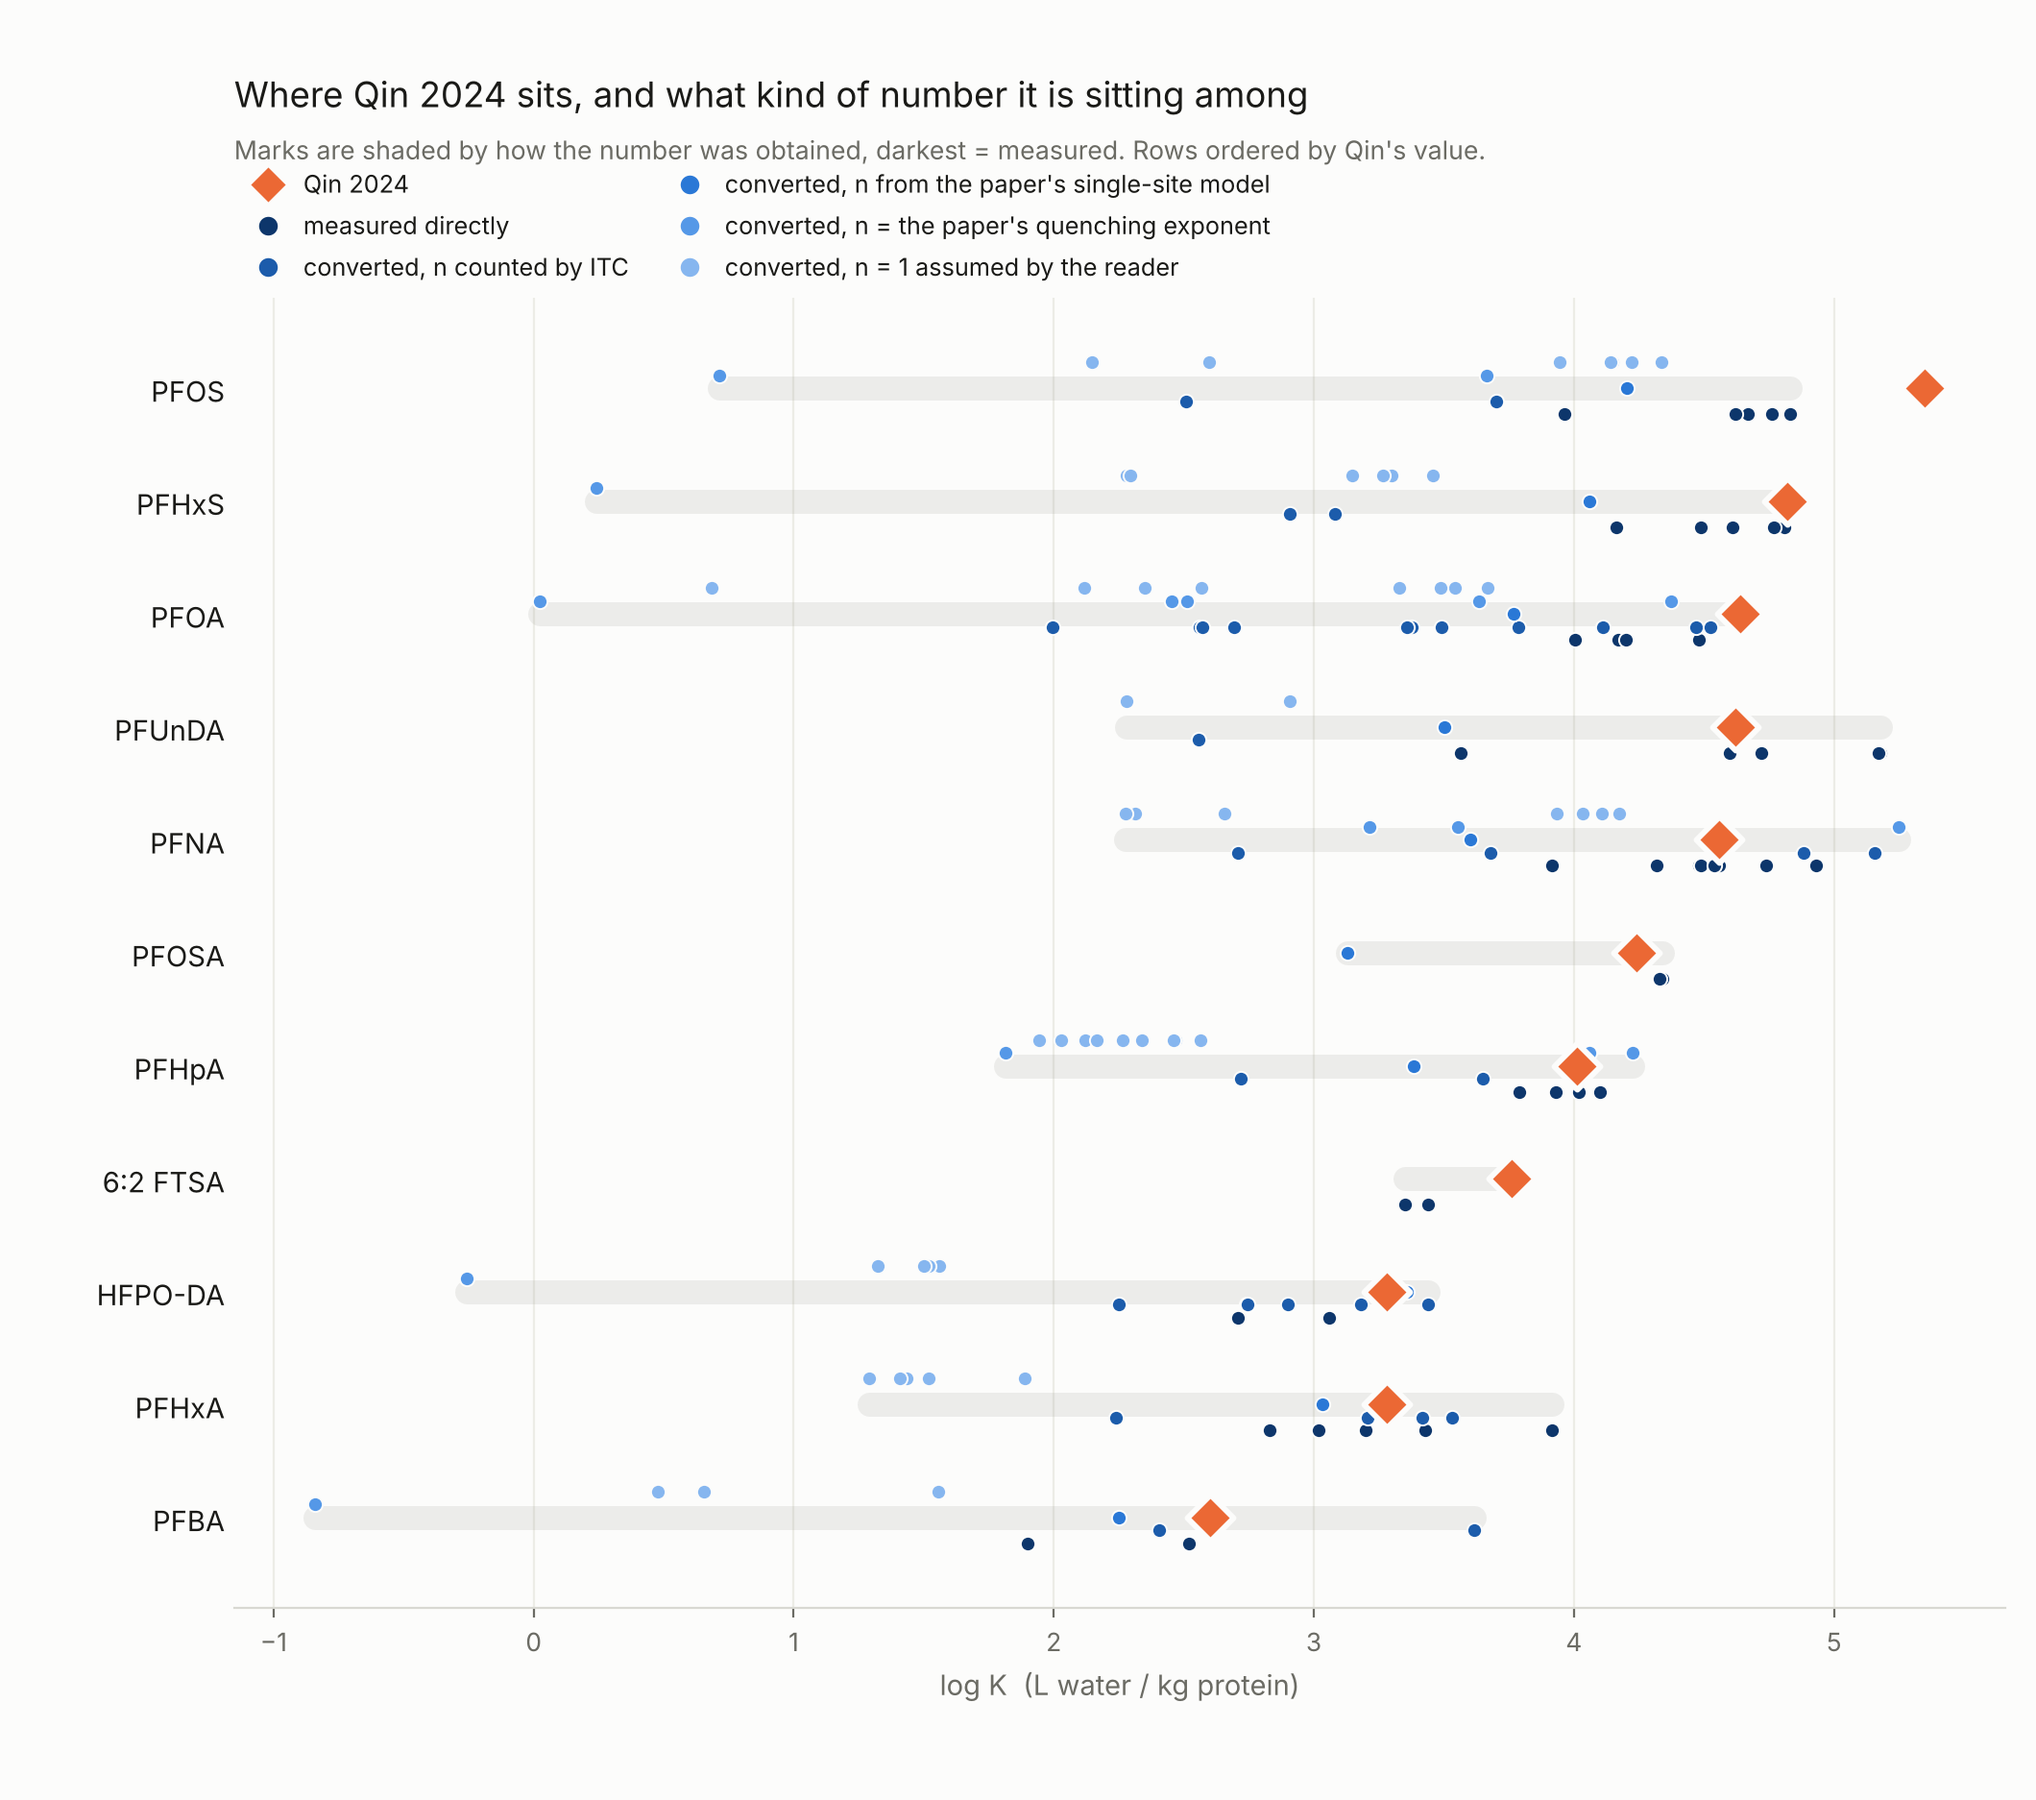
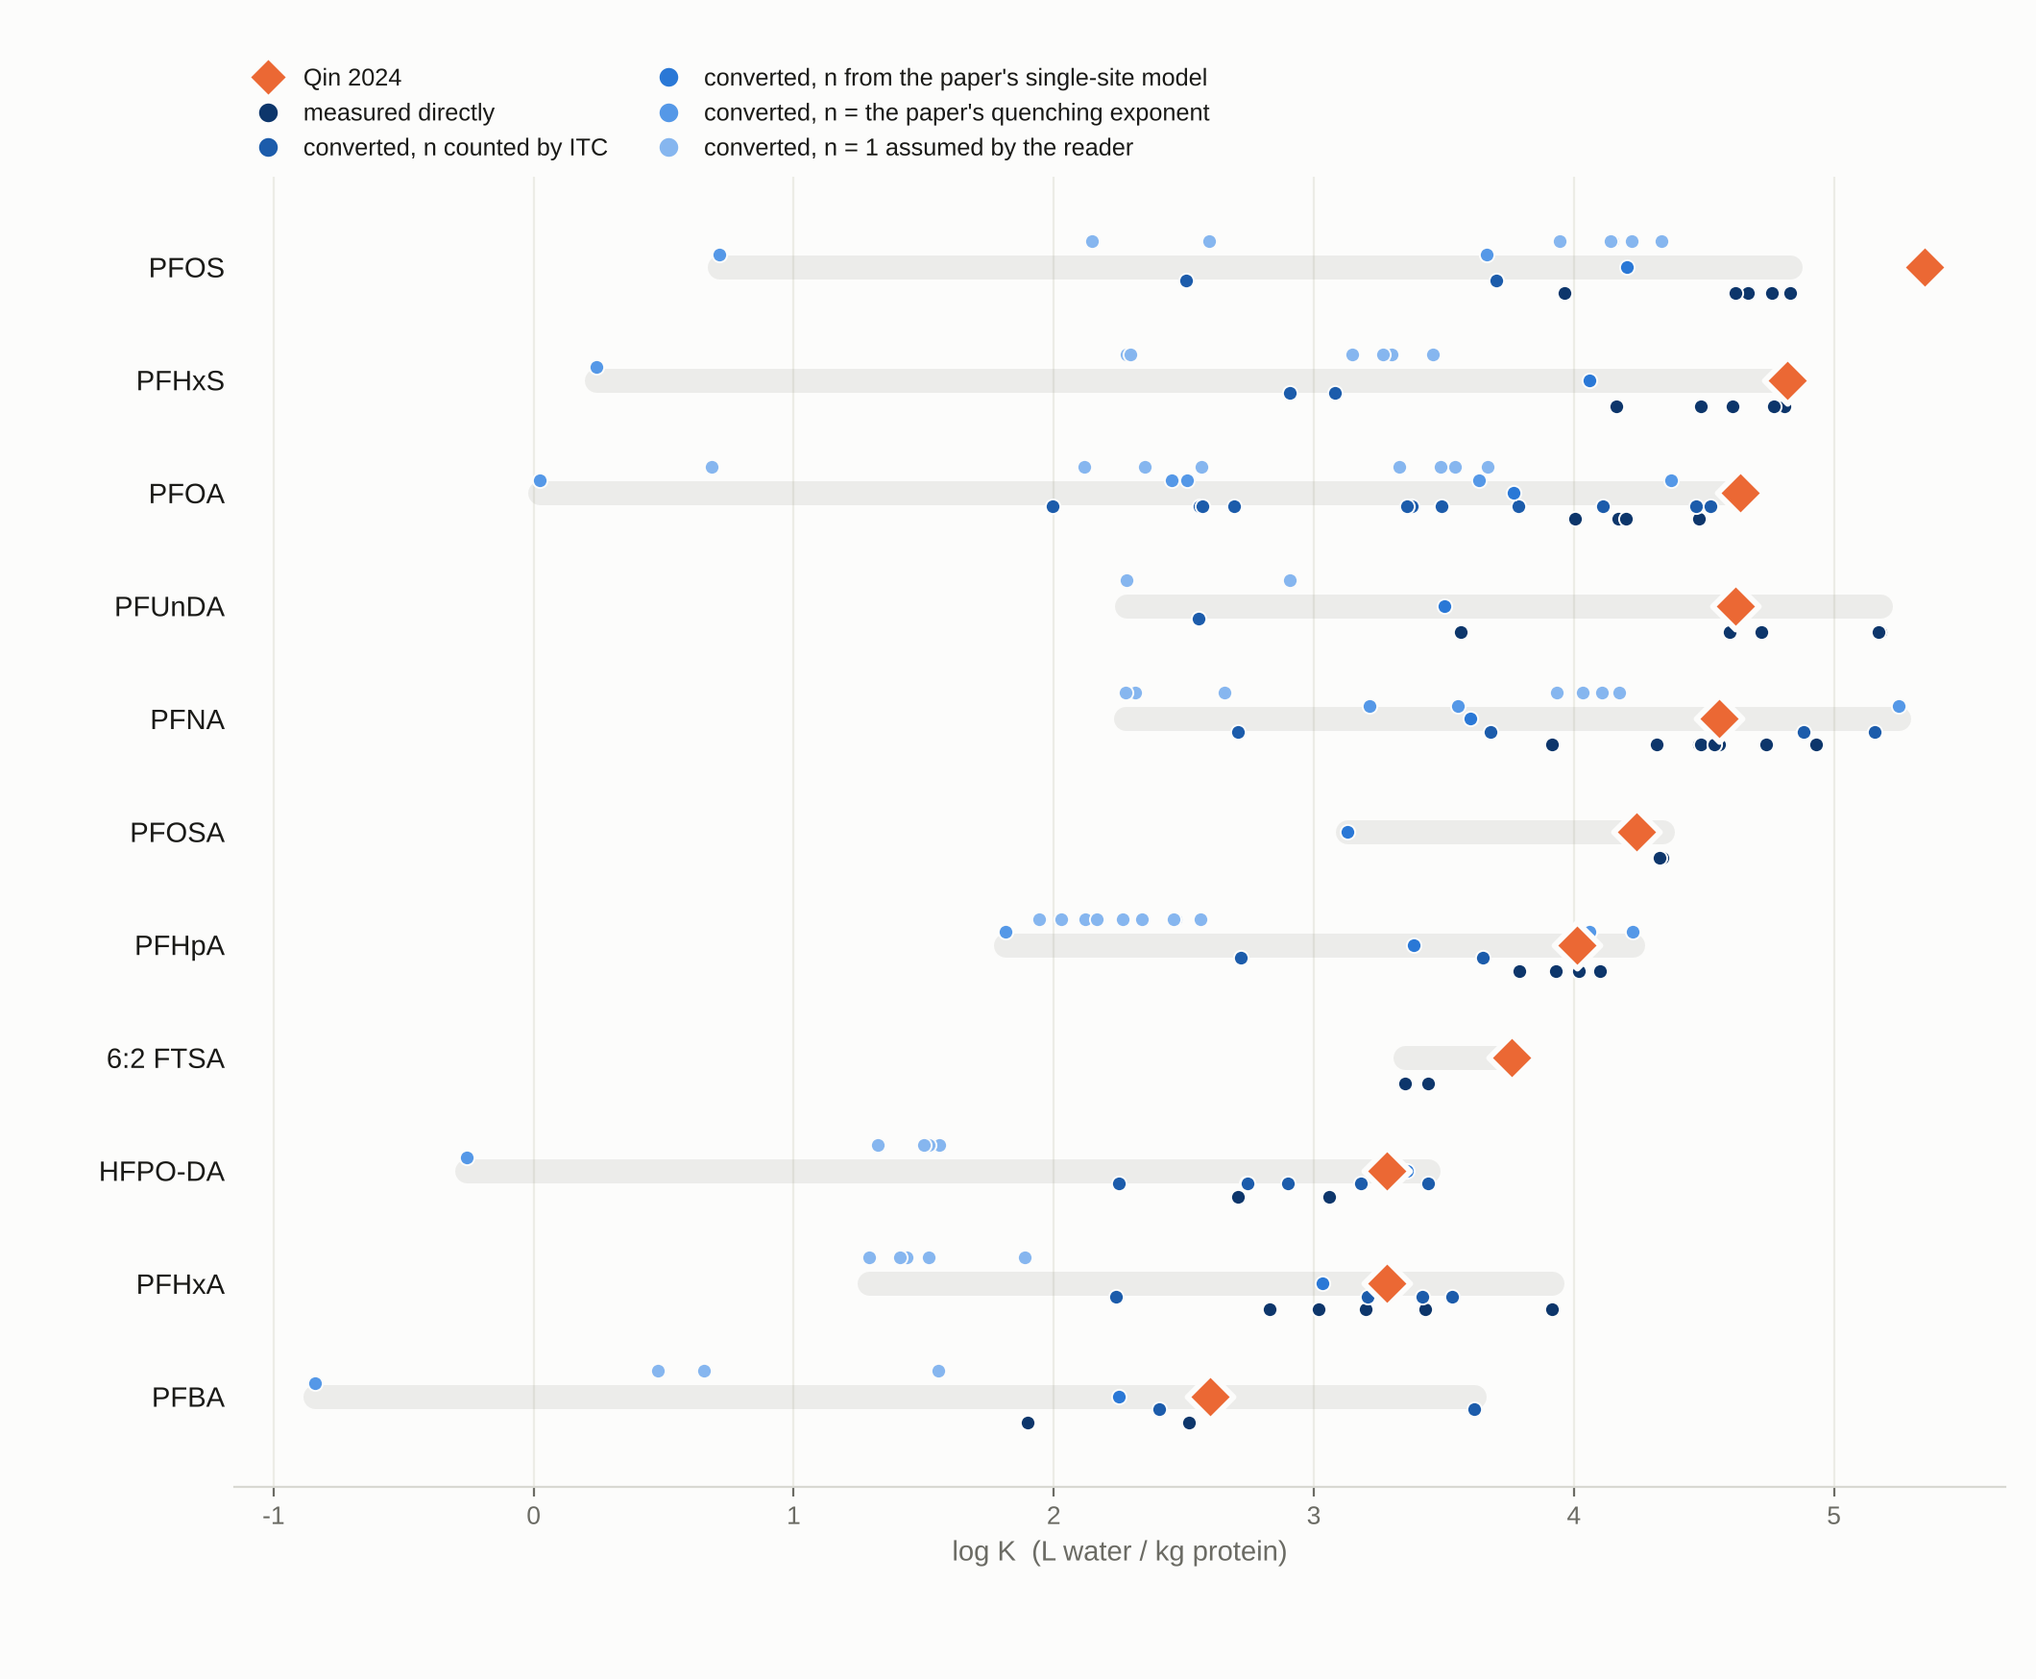
Figures: no titles, Arial metrics
Both figures lose their title and subtitle, so they drop into a
document that supplies its own caption.  Everything needed to read
one unaided stays on the canvas -- axis labels, per-panel compound
names, the legend -- and the vertical space the prose occupied is
reclaimed rather than left blank: figure A's header falls 1.55 to
0.92 inches, figure B's top margin 0.70 to 0.82 of the figure.

The title arguments are dropped from main() rather than left
accepting a string nothing uses.

FONT.  Arial is requested first, with Liberation Sans behind it.
Arial is not installed in this container and Liberation Sans is; the
two are metrically compatible, Liberation having been built as a
drop-in with identical glyph advance widths, so a figure rendered
here has the same layout, line breaks and label collisions as one
rendered on a machine that has Arial.  Requesting Arial first means
such a machine uses it without the figures shifting.

Claude-Session: https://claude.ai/code/session_01KWGaE5eHaWPnoHpTeKGRB5

diff --git a/tk_review/scripts/make_route_and_loading_figures.py b/tk_review/scripts/make_route_and_loading_figures.py
@@ -33,6 +33,17 @@ FIGURE B -- log K against the loading it was measured at.
   This is the chart the whole loading argument rests on: if nu did
   not matter, these panels would be flat.
 
+NO TITLES.  Both figures are drawn without a title or subtitle, so
+they drop into a document that supplies its own caption.  Everything
+needed to read a figure unaided -- axis labels, per-panel compound
+names, the legend -- is still on the canvas; only the prose is gone.
+
+FONT.  Arial is requested first and Liberation Sans is the fallback.
+The two are metrically compatible -- identical glyph advance widths,
+Liberation having been built as a drop-in -- so a figure rendered on a
+machine without Arial has the same layout, line breaks and label
+collisions as one rendered with it.
+
 Writes figures/albumin_route_split.png, figures/albumin_logk_vs_loading.png
 and the CSV each is drawn from.
 """
@@ -43,6 +54,20 @@ import os
 import sys
 
 import openpyxl
+
+# Arial first, so a machine that has it uses it; Liberation Sans is
+# metrically compatible with Arial (identical glyph advance widths,
+# built as a drop-in) and is what renders where Arial is absent, so
+# layout and line breaks are the same either way.
+FONT_STACK = ["Arial", "Liberation Sans", "Helvetica", "DejaVu Sans"]
+
+
+def use_arial():
+    import matplotlib
+    matplotlib.rcParams["font.family"] = "sans-serif"
+    matplotlib.rcParams["font.sans-serif"] = FONT_STACK
+    matplotlib.rcParams["axes.unicode_minus"] = False
+
 
 HERE = os.path.dirname(os.path.abspath(__file__))
 SRC = os.path.join(HERE, "..", "db", "albumin_logK_with_conc.xlsx")
@@ -92,9 +117,10 @@ def load():
     return out
 
 
-def fig_a(rows, title):
+def fig_a(rows):
     import matplotlib
     matplotlib.use("Agg")
+    use_arial()
     import matplotlib.pyplot as plt
     from matplotlib.lines import Line2D
 
@@ -106,7 +132,7 @@ def fig_a(rows, title):
              if any(r["pfas"] == c and not r["source"].startswith("Qin")
                     for r in rows)]
 
-    head = 1.55
+    head = 0.92            # legend only; titles are added downstream
     fh = 0.62 * len(order) + head + 1.0
     fig, ax = plt.subplots(figsize=(10.6, fh))
     fig.patch.set_facecolor(SURFACE); ax.set_facecolor(SURFACE)
@@ -151,26 +177,22 @@ def fig_a(rows, title):
               bbox_to_anchor=(0.0, 1.005, 1.0, 0.14), ncol=2, frameon=False,
               fontsize=9.1, labelcolor=INK, handletextpad=0.45,
               columnspacing=1.5, borderaxespad=0)
-    fig.text(0.115, 1 - 0.38 / fh, title, fontsize=13.2, color=INK, va="top")
-    fig.text(0.115, 1 - 0.70 / fh,
-             "Marks are shaded by how the number was obtained, darkest = "
-             "measured. Rows ordered by Qin's value.",
-             fontsize=9.6, color=MUTED, va="top")
     p = os.path.join(FIGS, "albumin_route_split.png")
     fig.savefig(p, dpi=200, facecolor=SURFACE)
     print(f"  wrote {os.path.relpath(p, os.path.join(HERE,'..'))}")
 
 
-def fig_b(rows, title, compounds):
+def fig_b(rows, compounds):
     import matplotlib
     matplotlib.use("Agg")
+    use_arial()
     import matplotlib.pyplot as plt
     from matplotlib.lines import Line2D
 
     n = len(compounds)
     fig, axes = plt.subplots(1, n, figsize=(2.55 * n, 4.5), sharey=True)
     fig.patch.set_facecolor(SURFACE)
-    fig.subplots_adjust(top=0.70, bottom=0.165, left=0.075, right=0.985,
+    fig.subplots_adjust(top=0.82, bottom=0.165, left=0.075, right=0.985,
                         wspace=0.13)
 
     for ax, cm in zip(axes, compounds):
@@ -202,15 +224,9 @@ def fig_b(rows, title, compounds):
     h += [Line2D([], [], marker="o", color="none", markerfacecolor=RAMP[i],
                  markeredgecolor=SURFACE, markersize=8, label=nm)
           for i, (nm, _) in enumerate(ROUTES)]
-    fig.legend(handles=h, loc="upper left", bbox_to_anchor=(0.075, 0.875),
+    fig.legend(handles=h, loc="upper left", bbox_to_anchor=(0.075, 0.995),
                ncol=3, frameon=False, fontsize=8.8, labelcolor=INK,
                handletextpad=0.4, columnspacing=1.4)
-    fig.text(0.075, 0.965, title, fontsize=13.2, color=INK, va="top")
-    fig.text(0.075, 0.918,
-             "Every albumin coefficient for these five, against the molar "
-             "loading it was measured at. If loading did not matter these "
-             "panels would be flat.",
-             fontsize=9.5, color=MUTED, va="top")
     p = os.path.join(FIGS, "albumin_logk_vs_loading.png")
     fig.savefig(p, dpi=200, facecolor=SURFACE)
     print(f"  wrote {os.path.relpath(p, os.path.join(HERE,'..'))}")
@@ -237,11 +253,8 @@ def main():
             w = csv.DictWriter(fh, fieldnames=list(data[0].keys()))
             w.writeheader(); w.writerows(data)
 
-    fig_a(rows, sys.argv[1] if len(sys.argv) > 1 else
-          "Where Qin 2024 sits, and what kind of number it is sitting among")
-    fig_b(with_ratio, sys.argv[2] if len(sys.argv) > 2 else
-          "A binding constant is a function of the loading it was measured at",
-          top5)
+    fig_a(rows)
+    fig_b(with_ratio, top5)
     return 0
 
 
